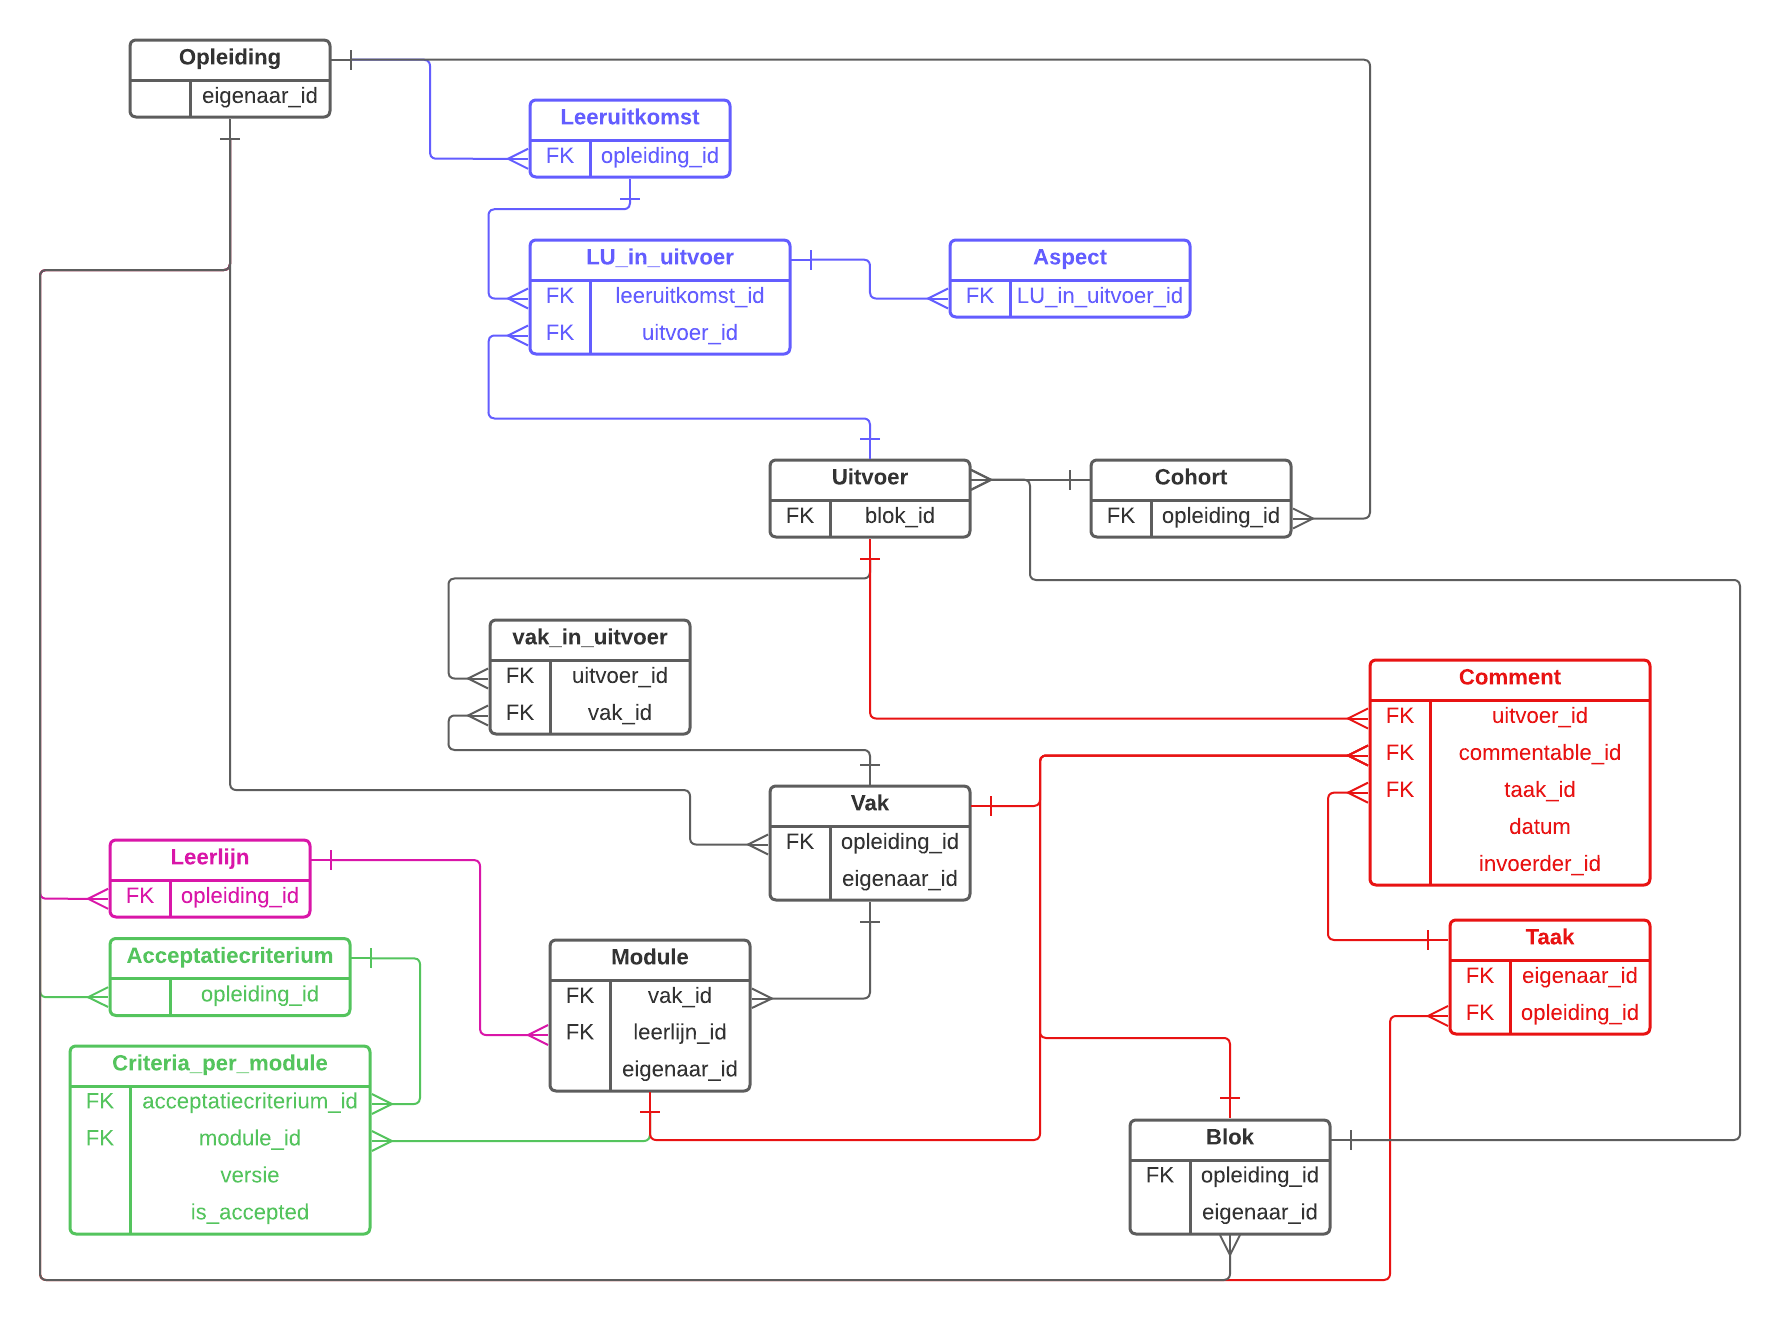
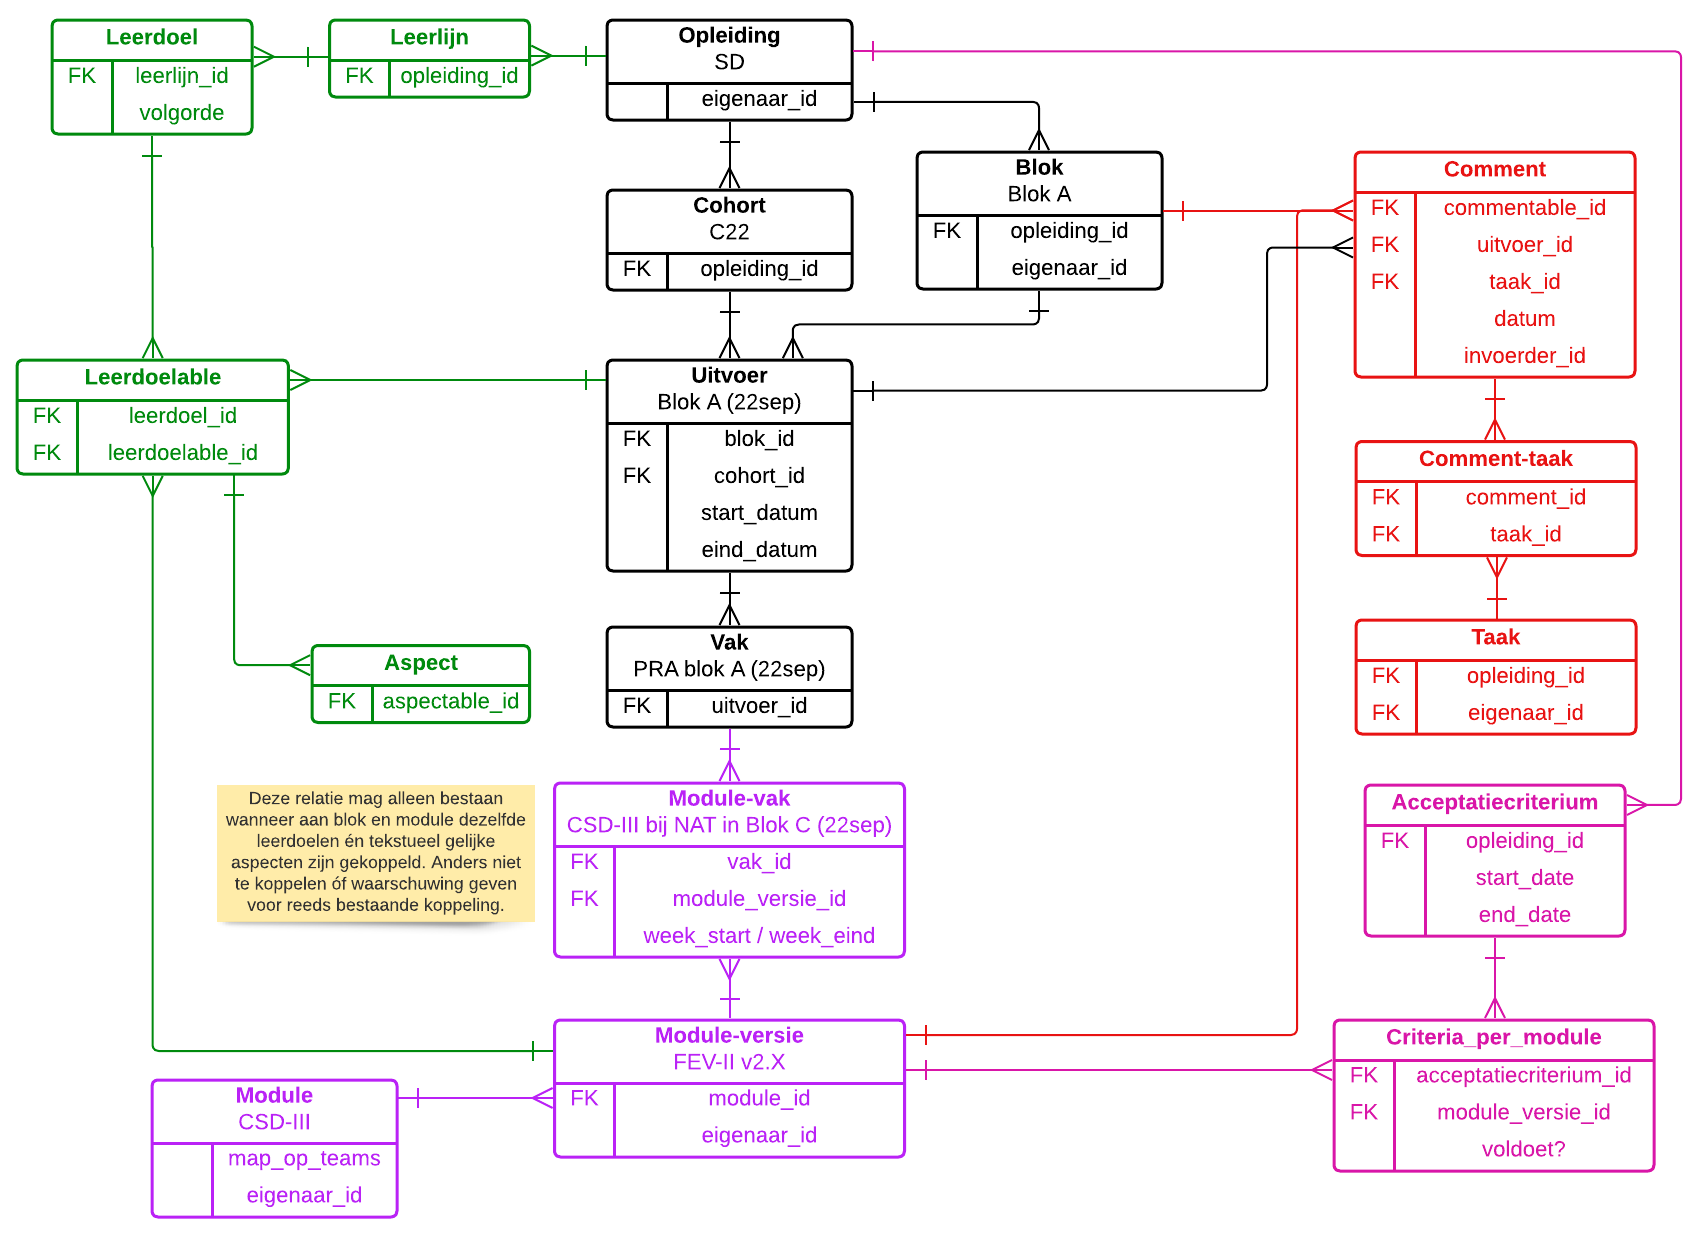
Update design

diff --git a/README.md b/README.md
@@ -4,16 +4,19 @@
 Doel van de app: het team krijgt eigenaarschap over de staat van het onderwijs. Dit ligt niet bij één persoon maar is voor iedereen inzichtelijk en het proces hieromheen is gestroomlijnd.
 
 * Als onderwijscoördinator wil ik de structuur inrichten, zodat mijn collega's hun werk kunnen doen (commentaar invullen, enzovoort).
+  * Dit mag niet teveel tijd kosten > oplossing: structuur is geheel kopieerbaar en bij wijzigingen wordt gevraag "wil je wijzigen voor alleen deze uitvoer, of ook toekomstige?"
   * Zie ERD (zwarte deel) voor hoofdstructuur, waarbij geldt: een "uitvoer" is een blok-in-een-jaar. Dus niet een globaal blok, maar specifiek "Blok X (2022-sep)".
-* Als vakeigenaar wil ik zien van welke vakken en modules ik eigenaar ben, zodat ik me daarop kan focussen.
+* Als module-eigenaar wil ik zien van welke modules ik eigenaar ben, zodat ik me daarop kan focussen.
   * Eigenaarschap is niet uitvoer-gebonden. Zodra de eigenaar wisselt, vallen alle historische en toekomstige verantwoordelijkheden over op de nieuwe eigenaar.
-  * Een blok bestaat uit vakken, een vak bestaat uit modules. Een vak _moet_ een eigenaar hebben. Wanneer een module geen eigenaar heeft, dan default de eigenaar naar die van het vak.
+  * Een uitvoer kent geen eigenaar, commentaar hierop valt onder de verantwoordelijkheid van de blokeigenaar.
+  * Een blok of module zonder eigenaar komt op een waarschuwingslijst en default voorlopig naar de opleidingseigenaar.
 * Als docent wil ik na/tijdens het uitvoeren van een module opmerkingen kunnen noteren, zodat de lessen voor een volgende uitvoer beter worden.
-  * Een opmerking is gekoppeld aan een module, vak of blok.
+  * Ik zie hiervoor het leer/toetsplan waarbij ik een module of het gehele blok kan aanklikken (comment-knop).
+  * Een opmerking is gekoppeld aan een module of blok (=uitvoer).
   * En ook gekoppeld aan een uitvoer, zodat herleid kan worden wanneer de opmerking ontstond.
   * Verder noteren we datum+invoerder van opmerking.
 * Als blok/vak/module-eigenaar wil ik na afloop van een uitvoer al het commentaar zien voor mijn eenheden (wel per eenheid apart), zodat ik comments kan groeperen tot SMART-geformuleerde taken.
-  * Al het commentaar betekent: al het commentaar van deze én vorige uitvoeren, voor zover dat nog niet de status 'afgehandeld' heeft.
+  * 'Al het commentaar' betekent: al het commentaar van deze én vorige uitvoeren, voor zover dat nog niet de status 'afgehandeld' heeft.
   * Zodra commentaar wordt gelinkt aan een taak, krijgt het de status 'afgehandeld'.
 * Als gebruiker van de app wil ik alle taken zien op één takenbord, zodat ik kan zien wat de status is van de opleiding als geheel, en ook wie waar mee bezig is en welke taken nog niet zijn toegewezen (waar ik eventueel kan helpen).
   * In principe is dit overzicht weergegeven als kanban-bord, met de blokken als kolommen.
@@ -27,6 +30,7 @@ Doel van de app: het team krijgt eigenaarschap over de staat van het onderwijs. 
 
 # ERD
 
+[Volledig ERD op LucidChart](https://lucid.app/lucidchart/b64482a9-95fb-46fe-bef5-d679b203f222/edit?invitationId=inv_ab7f8d7b-f481-4027-b2ac-2af9fdbedf12)
 ![erd](erd.png)
 
 # Klad (nog uitwerken tot userstories)
@@ -43,3 +47,6 @@ Mogelijkheid export (leerlijn nodig, paars/roze)
 ## Integratie kwaliteitschecklist / acceptatiecriteria (groen)
 
 Iets met checklist onderwijsmateriaal (de acceptatiecriteria). Aangeven of een module daaraan voldoet. Zodra je een versie bumpt wordt dat weer geïnvalideerd en moet je opnieuw aangeven (liefst door iemand anders!).
+
+## MISC
+
